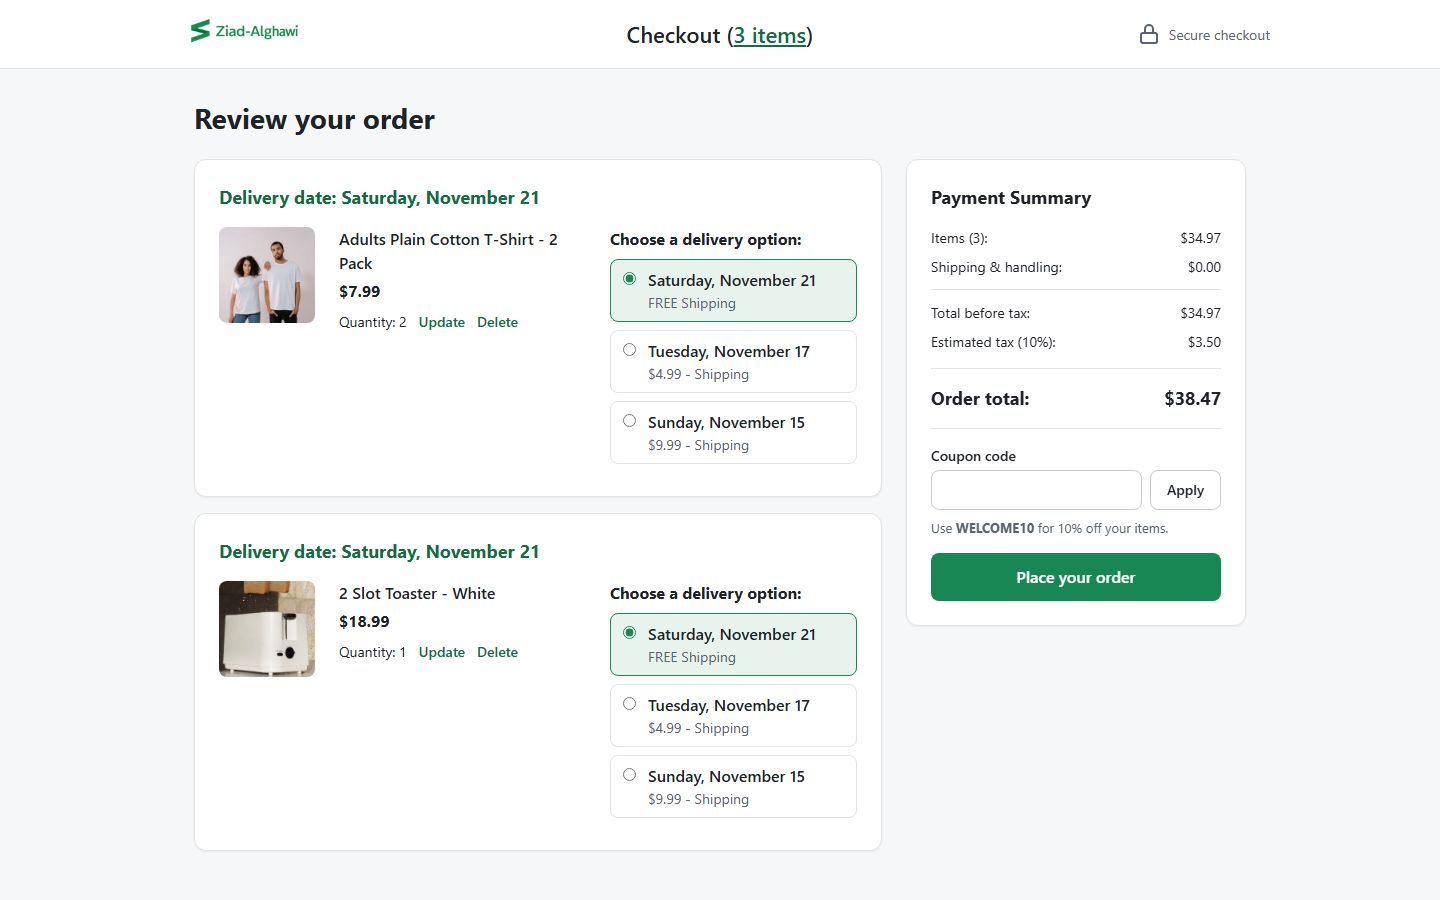
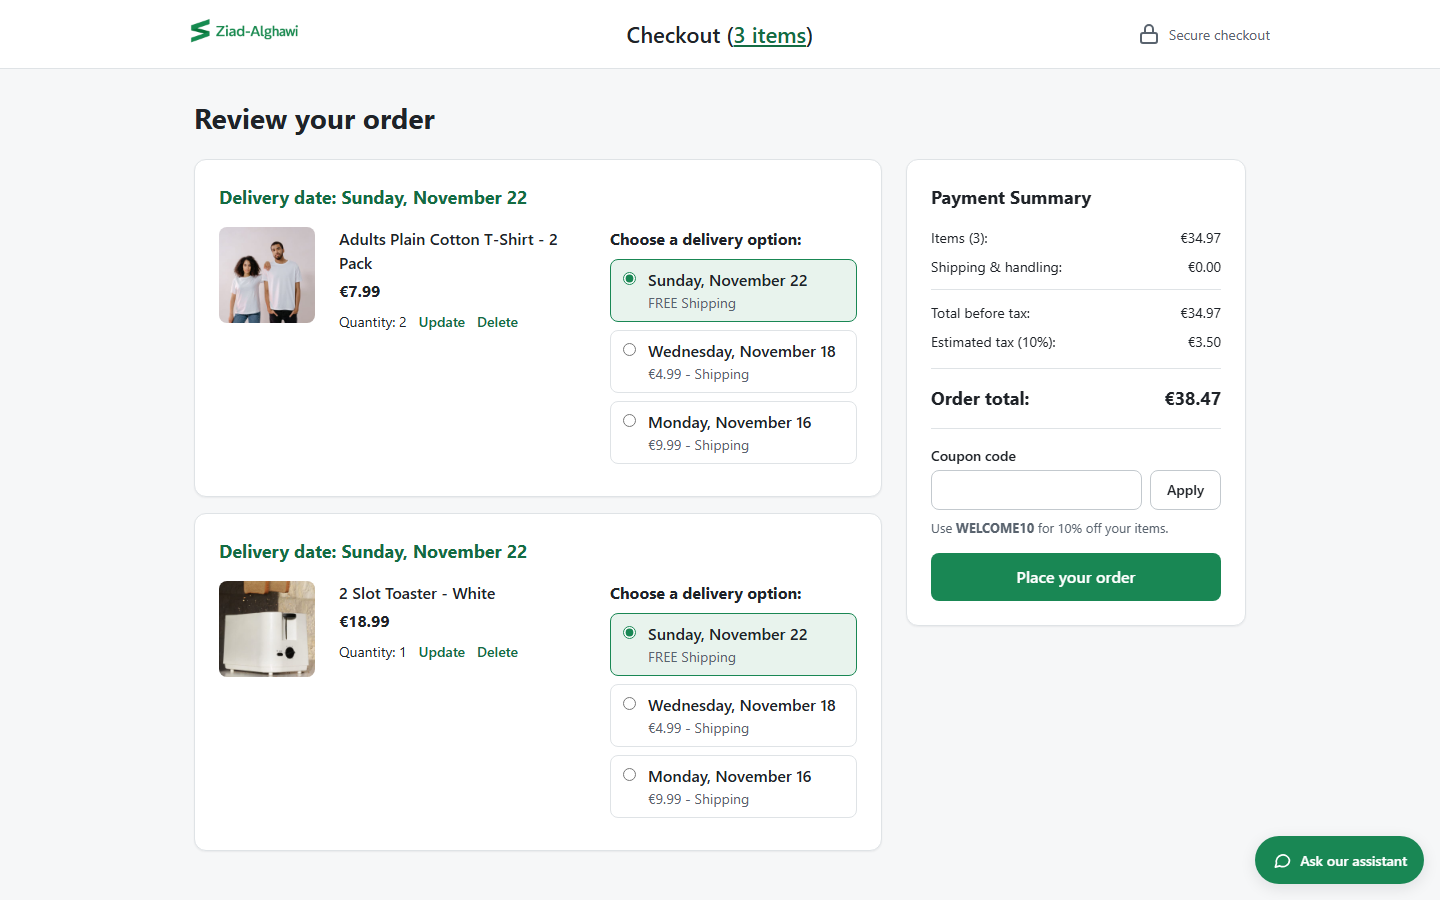
Share the featured coupon lookup, and update the README and screenshots
The assistant and the featured coupon route use one helper. The README lists euros, the assistant and the public address, adds the Lighthouse scores, and the screenshots show euro prices and the chat.

diff --git a/ecommerce-backend/utils/chatAssistant.js b/ecommerce-backend/utils/chatAssistant.js
@@ -1,6 +1,5 @@
 import { DeliveryOption } from '../models/DeliveryOption.js';
-import { Coupon } from '../models/Coupon.js';
-import { isExpired } from '../middleware/coupon.js';
+import { findFeaturedCoupon } from '../middleware/coupon.js';
 import { anthropic, CHAT_MODEL } from './anthropic.js';
 import { chatTools, runChatTool } from './chatTools.js';
 
@@ -16,8 +15,7 @@ const formatEuros = (cents) => (cents === 0 ? 'free' : `€${(cents / 100).toFix
 // The store's own facts, read from the database so they stay true when an admin changes them
 async function describeStore() {
   const deliveryOptions = await DeliveryOption.findAll();
-  const featuredCoupons = await Coupon.unscoped().findAll({ where: { active: true, featured: true }, order: [['createdAt', 'DESC']] });
-  const featured = featuredCoupons.find((coupon) => !isExpired(coupon));
+  const featured = await findFeaturedCoupon();
 
   return [
     `- Shipping: ${deliveryOptions.map(({ deliveryDays, priceCents }) => (

diff --git a/ecommerce-backend/routes/coupons.js b/ecommerce-backend/routes/coupons.js
@@ -1,7 +1,6 @@
 import express from 'express';
 import { asyncHandler } from '../middleware/asyncHandler.js';
-import { couponLimit, findValidCoupon, isExpired } from '../middleware/coupon.js';
-import { Coupon } from '../models/Coupon.js';
+import { couponLimit, findFeaturedCoupon, findValidCoupon } from '../middleware/coupon.js';
 
 const router = express.Router();
 
@@ -16,11 +15,7 @@ router.get('/:code', couponLimit, asyncHandler(async (req, res) => {
 
 // Its own path, as /api/coupons/featured would hide a coupon with the code FEATURED
 export const getFeaturedCoupon = asyncHandler(async (req, res) => {
-  const coupons = await Coupon.unscoped().findAll({
-    where: { active: true, featured: true },
-    order: [['createdAt', 'DESC']]
-  });
-  const coupon = coupons.find((featured) => !isExpired(featured));
+  const coupon = await findFeaturedCoupon();
   res.json(coupon ? { code: coupon.code, percentOff: coupon.percentOff } : null);
 });
 

diff --git a/ecommerce-backend/middleware/coupon.js b/ecommerce-backend/middleware/coupon.js
@@ -11,6 +11,15 @@ export function isExpired(coupon) {
   return coupon.expiresAt !== null && coupon.expiresAt <= new Date();
 }
 
+// The coupon the store promotes now: the newest active featured one that hasn't expired
+export async function findFeaturedCoupon() {
+  const coupons = await Coupon.unscoped().findAll({
+    where: { active: true, featured: true },
+    order: [['createdAt', 'DESC']]
+  });
+  return coupons.find((featured) => !isExpired(featured)) ?? null;
+}
+
 // The coupon a customer can use now, or why they can't
 export async function findValidCoupon(code) {
   const normalizedCode = normalizeCouponCode(code);

diff --git a/ecommerce-backend/test/chat.test.js b/ecommerce-backend/test/chat.test.js
@@ -161,6 +161,7 @@ test('answers from what the search tool finds in the database, and returns those
   // The store's facts come from the database
   assert.match(first.system, /1 day for €9.99/);
   assert.match(first.system, /7 days for free/);
+  assert.match(first.system, /WELCOME10 takes 10% off/);
 
   const toolResult = second.messages.at(-1).content[0];
   assert.equal(toolResult.type, 'tool_result');

diff --git a/ecommerce-backend/routes/chat.js b/ecommerce-backend/routes/chat.js
@@ -8,7 +8,7 @@ import { refusal, sendRefusal } from '../utils/refusal.js';
 
 const router = express.Router();
 
-export const MAX_MESSAGE_LENGTH = 500;
+const MAX_MESSAGE_LENGTH = 500;
 // Only the last few messages are sent on, which is all a shopping question needs
 const MAX_HISTORY = 6;
 // Messages the assistant answers in a day, for the whole store, so a flood can't run up the bill

diff --git a/README.md b/README.md
@@ -1,6 +1,6 @@
 # React E-Commerce Store
 
-A full-stack online store built with React, TypeScript and an Express API: product search and filters, a cart, coupons, two ways to pay, order tracking with real statuses, customer accounts with a wishlist, an admin area to run the store, English and German, and a dark mode.
+A full-stack online store built with React, TypeScript and an Express API: product search and filters, a cart, coupons, two ways to pay, order tracking with real statuses, customer accounts with a wishlist, an AI shopping assistant, an admin area to run the store, prices in euros, English and German, and a dark mode.
 
 **Live demo:** https://shop.ziadalghawi.com
 
@@ -15,6 +15,7 @@ A full-stack online store built with React, TypeScript and an Express API: produ
 - **Cancel an order** from your orders page before it ships. Its items go back in stock, and a card payment is refunded in full.
 - **Sold out products:** the Straw Wide Brim Sun Hat can't be added to the cart, and the Woven Straw Tote Bag has only 2 left.
 - **Create an account** to keep your cart, orders and wishlist on every device. What you added as a guest moves to the account when you log in.
+- **Ask the shopping assistant** (the chat button in the corner) for products under a price, or about shipping and coupons. It only answers about this store, and shows the products it found as cards you can add to the cart. It needs `ANTHROPIC_API_KEY` on the server.
 - **Switch to German** with DE in the header, or **turn on dark mode** with the moon next to it. Both are remembered, and until you choose, the store follows your browser's language and your system's theme.
 
 The admin area needs an account listed in `ADMIN_USER_IDS`, so the screenshots below show it.
@@ -46,6 +47,16 @@ The admin area needs an account listed in `ADMIN_USER_IDS`, so the screenshots b
 - Coupons with a percentage, an optional last day, and whether checkout suggests them
 - Removing any review
 
+**Shopping assistant**
+- A chat button opens an assistant that answers in the store's language, about this store only. It uses the Anthropic Messages API with tool use: it can search the products (text, category, highest price, in stock) and get one product, read-only and straight from the database, so it never invents a product or a price. Shipping, payment, cancelling and coupons come from the delivery options and coupon in the database
+- Products it finds show as the shop's own cards, with Add to Cart and a link to the product page
+- It declines anything else politely. What visitors write only reaches the model as a message, and the model has no tools beyond those two, so a prompt injection has nothing to unlock
+- Limits on cost: per visitor, per address and per day for the whole store, short messages, only the last 6 sent on, a cap on the answer's length and a timeout. Without `ANTHROPIC_API_KEY`, the button is hidden. Tests use a stand-in for the API, never the real one
+
+**Prices and domain**
+- Everything is sold in euros, kept as whole cents. One formatter writes them for the language: "€20.67" in English, "20,67 €" in German. Stripe Checkout, its coupons and refunds use euros too
+- The store has one public address, `PUBLIC_SITE_URL`, used for link previews, the canonical link, Stripe's return pages, the password-reset email and CORS. Render's own address redirects there with a 301
+
 **Payments**
 - Pay on delivery, or by card with Stripe Checkout in test mode
 - The API builds every Stripe payment from the cart in the database, so nothing the browser sends sets a price, and a coupon becomes a one-time Stripe discount
@@ -56,7 +67,7 @@ The admin area needs an account listed in `ADMIN_USER_IDS`, so the screenshots b
 - Unit, API and end-to-end tests, run by GitHub Actions on every push
 - Security headers, a content security policy, rate limits, body size limits and admin checks on every admin route
 - Keyboard and screen reader friendly: labelled controls, visible focus, focus kept in place after changes, and an automated accessibility check in the end-to-end tests
-- Lighthouse 100 for performance, accessibility, best practices and SEO on the home, product and checkout pages (local production build, mobile settings)
+- Lighthouse (mobile): 97 / 100 / 96 / 100 for performance, accessibility, best practices and SEO
 
 ## Screenshots
 
@@ -65,6 +76,8 @@ The admin area needs an account listed in `ADMIN_USER_IDS`, so the screenshots b
 | ![A product page with its photo, rating, price and reviews](docs/screenshots/product.png) | ![Checkout with delivery options, the payment summary and a coupon field](docs/screenshots/checkout.png) |
 | **Admin overview and products** | **Admin orders** |
 | ![The admin overview with order counts, revenue, low stock and top products, above the product table](docs/screenshots/admin-products.png) | ![The admin orders table with filters, statuses and buttons to ship or cancel](docs/screenshots/admin-orders.png) |
+| **Shopping assistant** | **Assistant on a phone, in dark mode** |
+| ![The shopping assistant open over the shop, answering with a product card and an Add to Cart button](docs/screenshots/chat.png) | ![The shopping assistant on a 375 px wide phone in dark mode](docs/screenshots/chat-mobile.png) |
 | **Wishlist in dark mode** | **Product page in German** |
 | ![A wishlist with four saved products, shown in dark mode](docs/screenshots/wishlist-dark.png) | ![A product page in German with its reviews and four suggested products from the same category](docs/screenshots/product-german.png) |
 
@@ -201,7 +214,7 @@ Supabase's built-in email service only sends to the project's team and a few ema
 
 ### Card Payment
 
-In the Stripe Dashboard in test mode, copy the secret key from **Developers > API keys** into `STRIPE_SECRET_KEY`. For the deployed store, add a webhook endpoint at `https://<your-store>/api/stripe/webhook` for the event `checkout.session.completed` and copy its signing secret into `STRIPE_WEBHOOK_SECRET`. Locally the webhook is optional, as the page Stripe returns to confirms the payment too. Only a test key turns card payment on.
+In the Stripe Dashboard in test mode, copy the secret key from **Developers > API keys** into `STRIPE_SECRET_KEY`. For the deployed store, add a webhook endpoint at `<PUBLIC_SITE_URL>/api/stripe/webhook` for the event `checkout.session.completed` and copy its signing secret into `STRIPE_WEBHOOK_SECRET`. Locally the webhook is optional, as the page Stripe returns to confirms the payment too. Only a test key turns card payment on.
 
 The Stripe sandbox is shared with another app, so every session is tagged with `app: "react-ecommerce"` and the webhook ignores events without the tag.
 
@@ -218,7 +231,7 @@ The Stripe sandbox is shared with another app, so every session is tagged with `
 │   ├── models/           # Sequelize models
 │   ├── routes/           # API routes
 │   ├── test/             # API tests
-│   ├── utils/            # Stock, order status, demo restock and other helpers
+│   ├── utils/            # Stock, order status, demo restock, the shopping assistant and other helpers
 │   ├── documentation.md  # API reference
 │   └── server.js         # Server entry point
 ├── public/               # Favicon, link preview image and product photos
